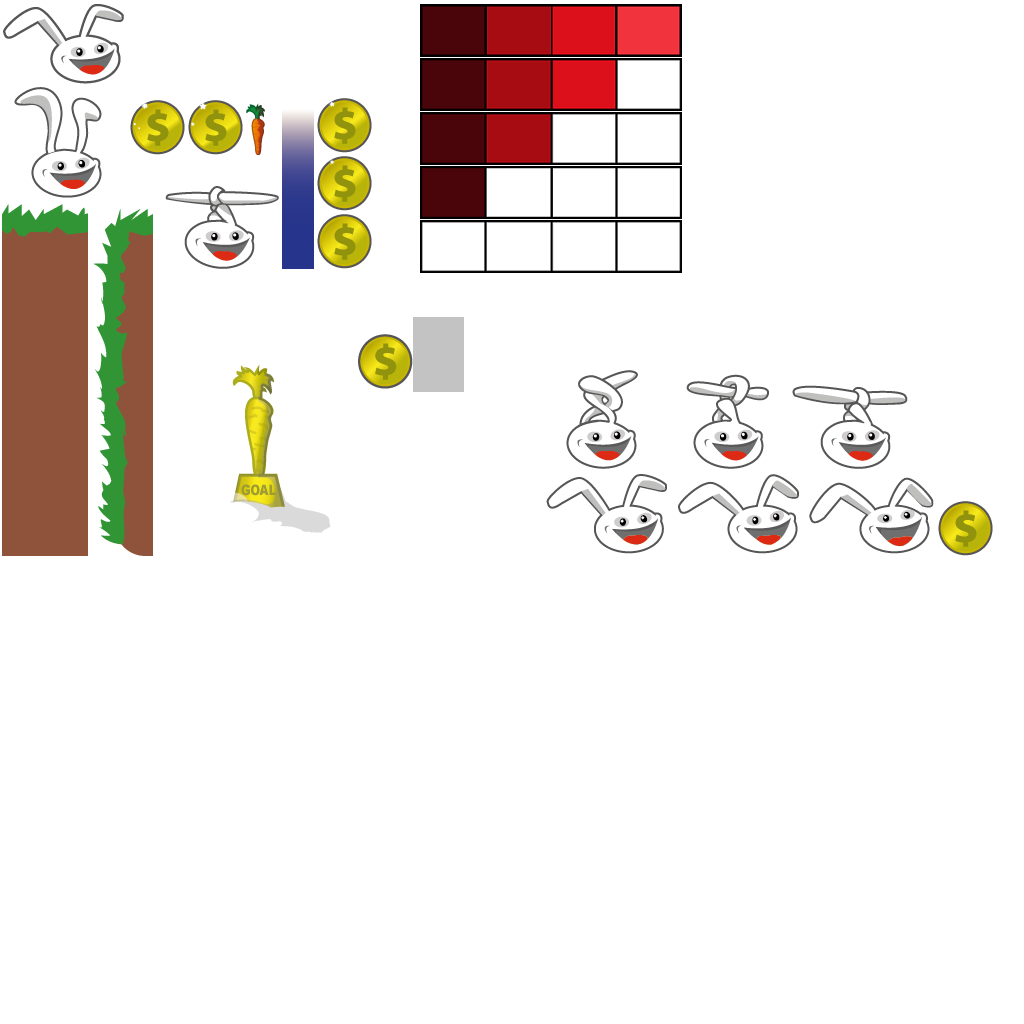
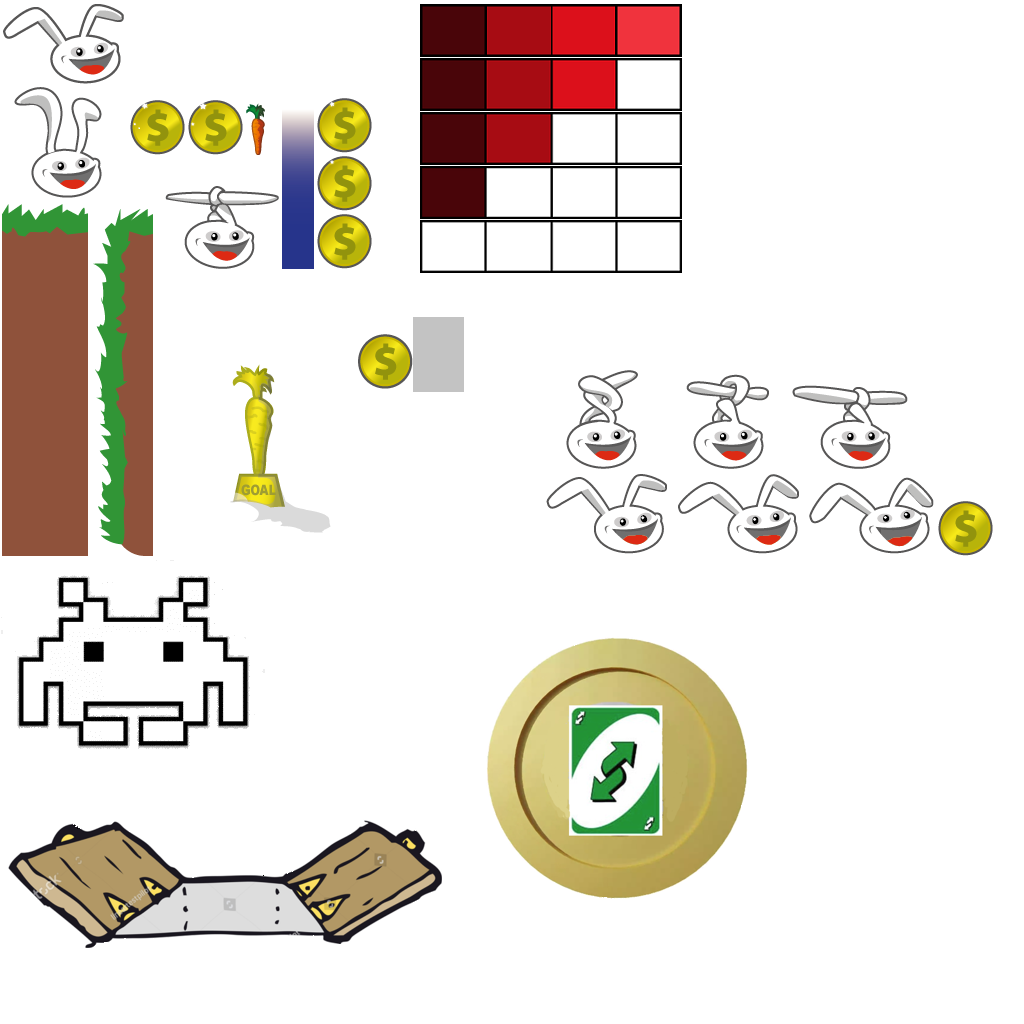
Rendered 3 Buttons For Trap Selection

Changed region(s): [[0.4688, 0.625, 0.75, 0.875], [0.0, 0.7812, 0.4375, 0.9375], [0.0, 0.5625, 0.25, 0.75]]

diff --git a/core/src/com/templecis/escaperoute/game/WorldRenderer.java b/core/src/com/templecis/escaperoute/game/WorldRenderer.java
@@ -72,7 +72,7 @@ public class WorldRenderer implements Disposable {
         // flip y-axis
         cameraGUI.update();
         b2debugRenderer = new Box2DDebugRenderer();
-
+        add_attacker_trap_ui(batch);
     }
 
     public void render() {
@@ -143,6 +143,7 @@ public class WorldRenderer implements Disposable {
         batch.end();
     }
 
+
     private void renderAttackerGui(SpriteBatch batch) {
         batch.setProjectionMatrix(cameraGUI.combined);
         batch.begin();
@@ -152,7 +153,7 @@ public class WorldRenderer implements Disposable {
         // draw collected feather icon (anchored to top left edge)
         //renderGuiFeatherPowerup(batch);
         // draw extra lives icon + text (anchored to top right edge)
-        attacker_traps(batch);
+        add_attacker_trap_ui(batch);
         // draw FPS text (anchored to bottom right edge)
 
 
@@ -306,15 +307,10 @@ public class WorldRenderer implements Disposable {
 
 
     private Skin skin = new Skin(Gdx.files.internal(Constants.SKIN_CANYONBUNNY_UI), new TextureAtlas(Constants.TEXTURE_ATLAS_UI));
-    private void attacker_traps(SpriteBatch batch) {
+    private void add_attacker_trap_ui(SpriteBatch batch) {
 
         Table layer = new Table();
         layer.right().top();
-
-
-
-
-
 
         Button trap_door = new Button(skin,"play");
         layer.add(trap_door);
@@ -460,15 +456,15 @@ public class WorldRenderer implements Disposable {
     }
 
     private void reverse_coin_button_clicked(){
-
+        Gdx.app.log("REVERSE COIN CLICKED","REVERSE COIN");
     }
 
     private void trap_door_button_clicked(){
-
+        Gdx.app.log("TRAP DOOR CLICKED","ITS A TARP");
     }
 
     private void monster_button_clicked(){
-
+        Gdx.app.log("MONSTER CLOCKED","MONSTER!!!!!!!");
     }
 
 }
